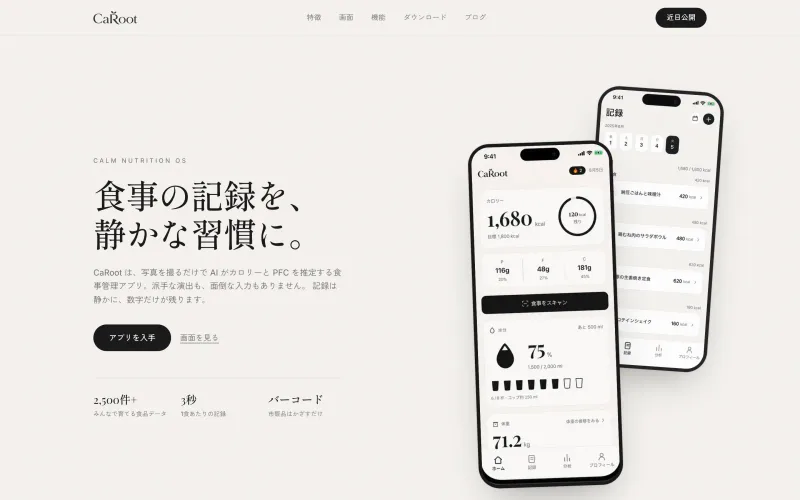
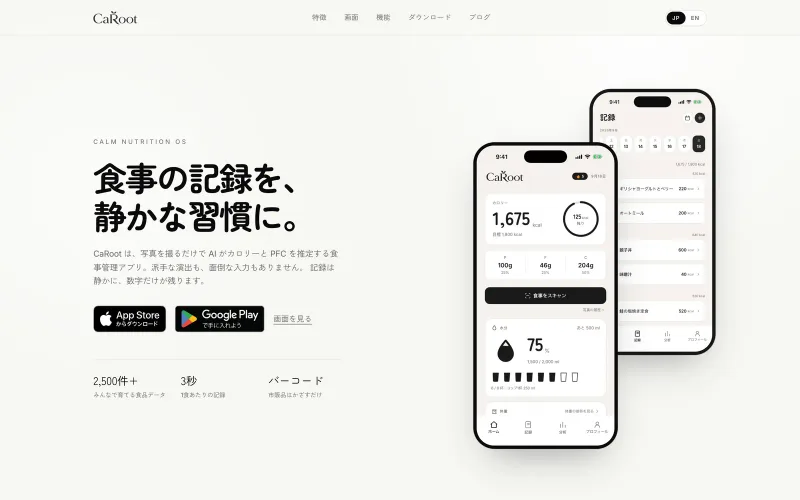
chore: retake the CaRoot and Jurakuen screens
CaRoot's landing page was redesigned, so both of its plates showed a page
that no longer exists. They are retaken from the live site at the sizes the
others use: 1440x900 on desktop, 390x844 on a phone, both at 2x. caroot.app
is now the canonical host - www answers with a 308 to it - so the case study
links there directly.

Jurakuen's desktop plate now opens on the tea-field slide instead of the
matcha one. The capture had a black band across its top from the browser; that
is cut away and the rest fitted to 16:10. The phone plate already showed the
same field, so the two now read as one site on two devices.

diff --git a/lib/works.ts b/lib/works.ts
@@ -42,7 +42,7 @@ export const works: Work[] = [
       ja: "企画、UI/UX、モバイル・バックエンド開発、データ設計、リリース・運用",
     },
     year: "2026",
-    url: "https://www.caroot.app",
+    url: "https://caroot.app",
     statement: {
       en: "A calorie and nutrition app where logging a meal is one photograph. AI splits the plate into individual dishes, and a correction you make once is applied to that dish from then on.",
       ja: "食事の記録を写真1枚で終わらせるための、カロリー・栄養管理アプリ。AIが料理を品目ごとに見分け、一度直した内容はその料理に次回から自動で適用されます。",
